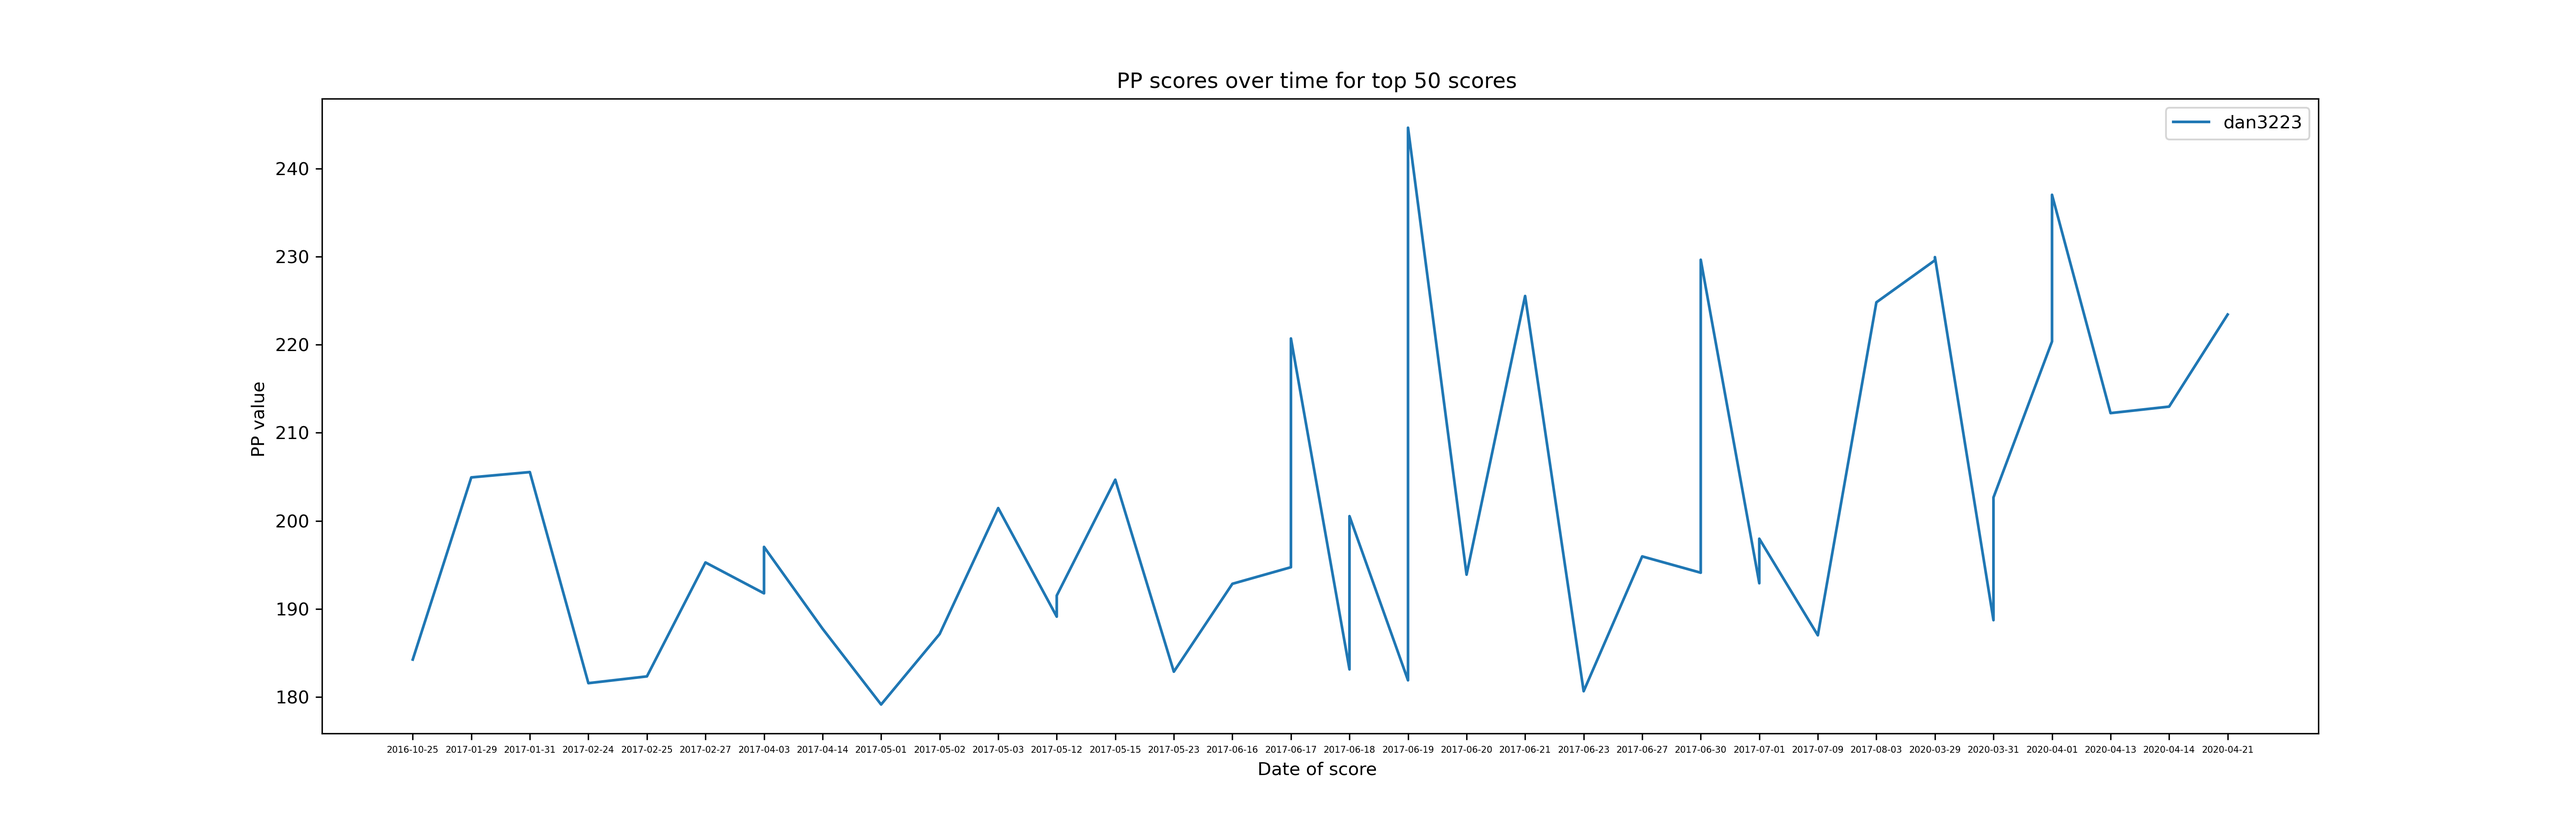
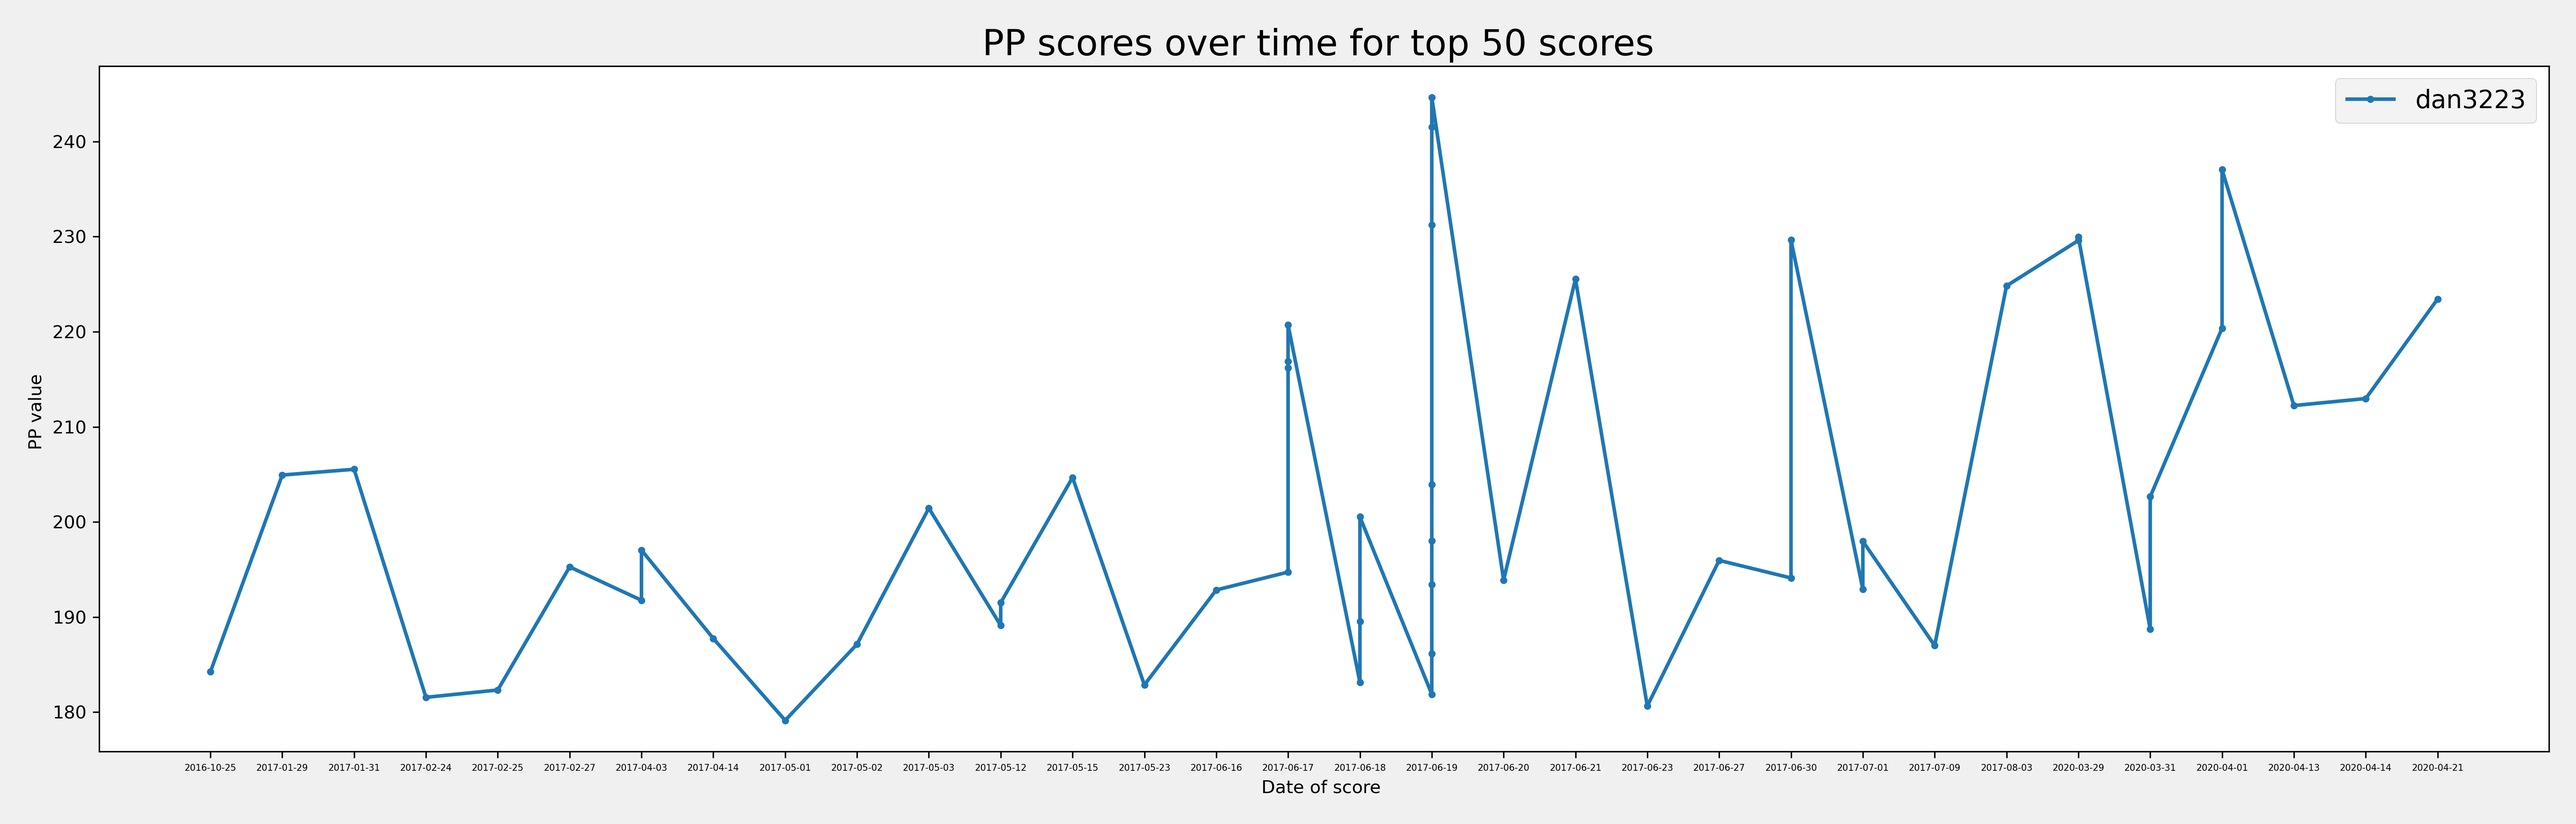
changed plot styles

diff --git a/run_me.py b/run_me.py
@@ -15,18 +15,20 @@ def set_sizes():
 
 
 def plot_graph(pp1, score_date2, user_name1):
-    plt.plot(pp1, score_date2, label=user_name1[0])  # plots the graph
+    plt.style.use('fivethirtyeight')
+    plt.plot(pp1, score_date2, label=user_name1[0], marker='.', linewidth=2.0)  # plots the graph
 
     plt.title('PP scores over time for top 50 scores ')
     plt.xlabel('Date of score ')
     plt.ylabel('PP value ')
 
     plt.legend()  # actually print the legend
-
+    plt.tight_layout()
     png_saved = user_name1[0] + '.png'
     svg_saved = user_name1[0] + '.svg'
     plt.savefig(png_saved, dpi=300)  # saves pp graph as .png
     plt.savefig(svg_saved)  # saves an svg
+    plt.grid('on', linestyle='--')
     plt.show()
 
 
